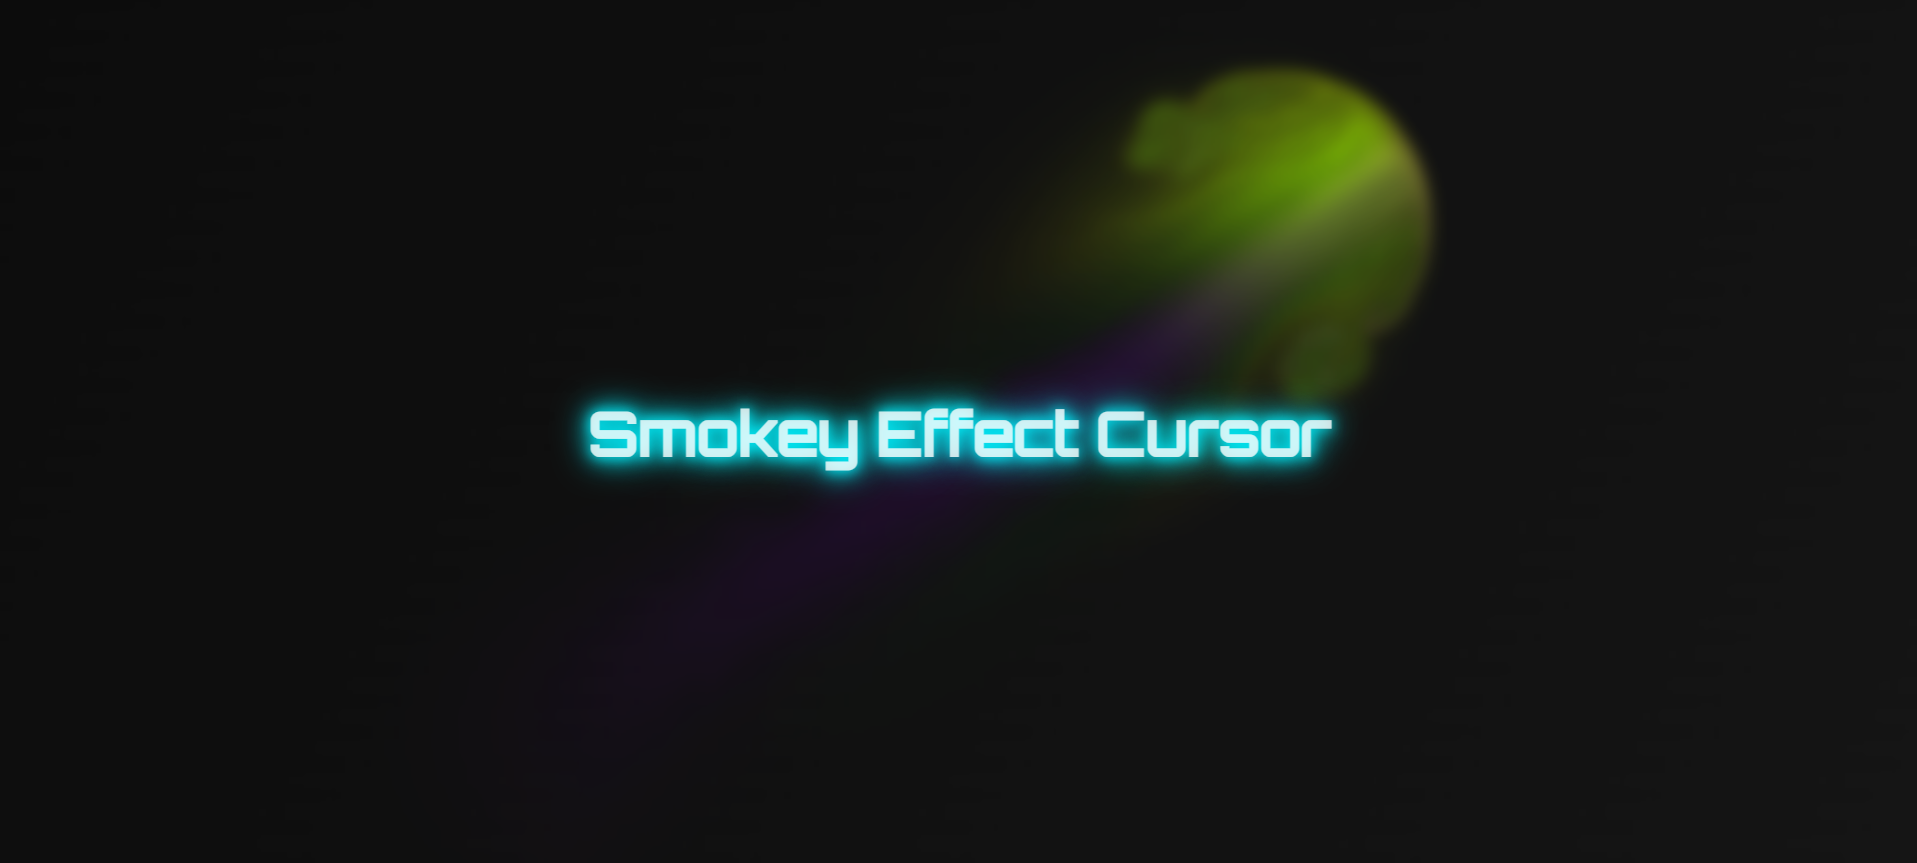
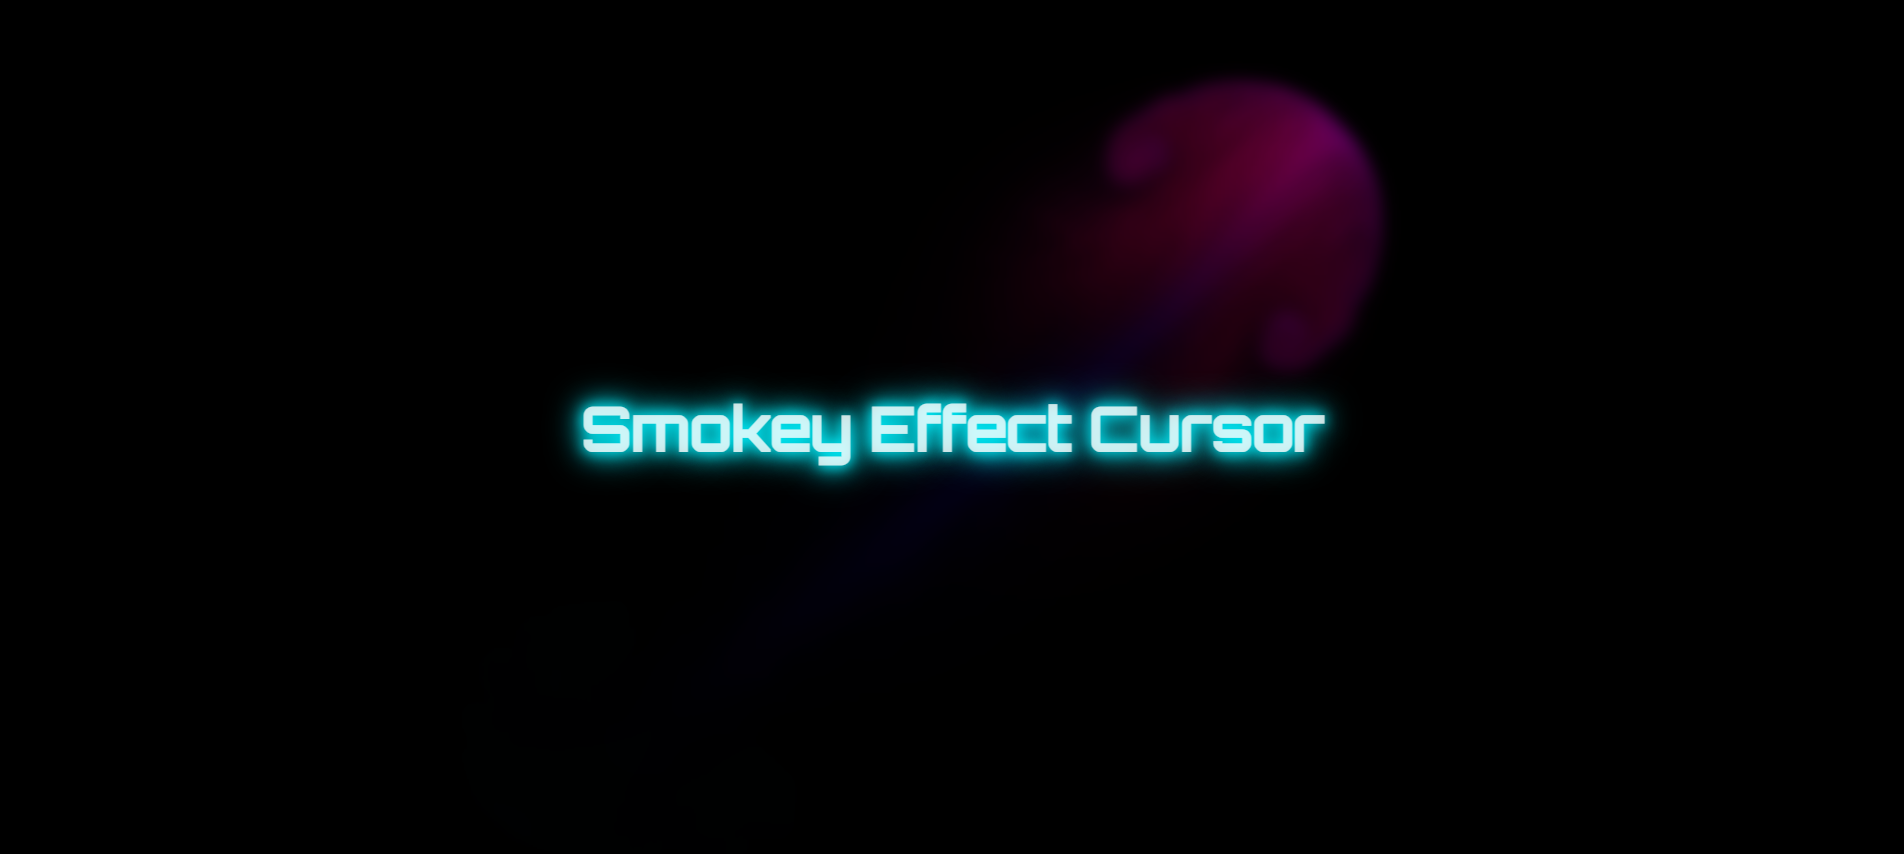
README.md Updated

Changed region(s): [[0.5268, 0.0609, 0.7747, 0.548], [0.3099, 0.4567, 0.5268, 0.7916]]

diff --git a/index.html b/index.html
@@ -14,7 +14,7 @@
         }
 
         body {
-            background: linear-gradient(120deg, #0f0f0f, #1a1a1a);
+            background: #000;
             font-family: 'Orbitron', sans-serif;
             overflow: hidden;
             height: 100vh;
